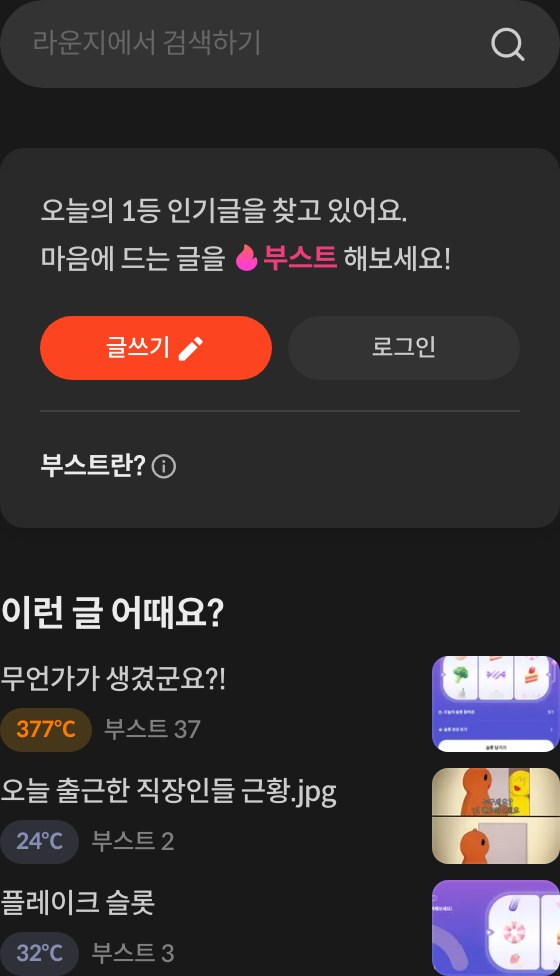
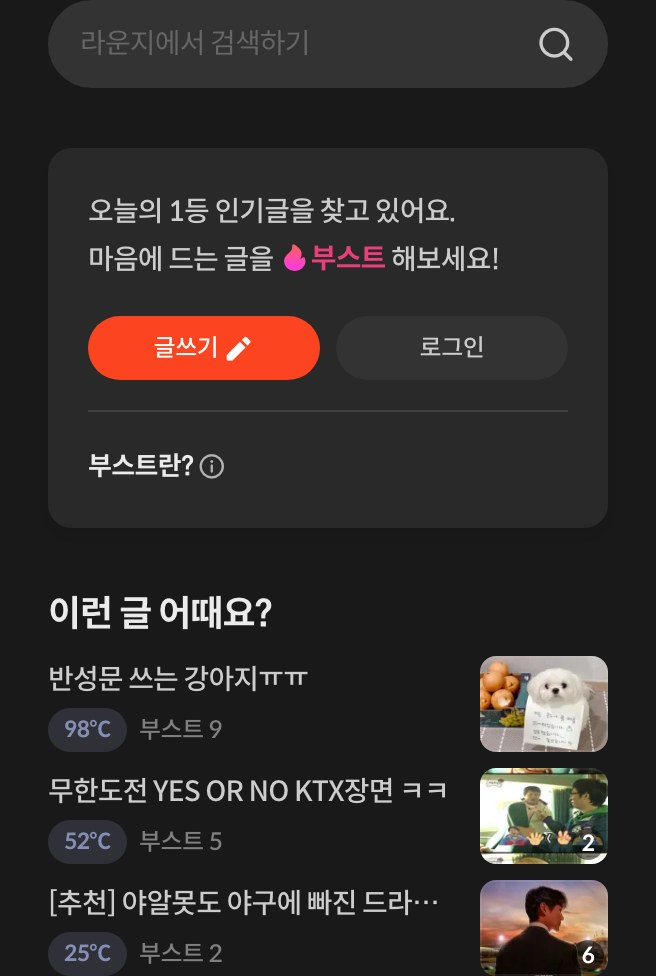
Lounge: live light background, uncropped card shadow
- Light mode keeps the real lounge background (global gray-20 #fafafa)
  so the search input (#f0f0f0) is visible again; dark stays on the
  store main color.
- The right column is cut as the whole aside box (24 + 280 + 24) so the
  card shadow is no longer clipped. Column gap 56 -> 32 and right
  padding 64 -> 40 compensate, keeping the content where it was.
- Recaptured the lounge pair accordingly.

diff --git a/lounge.html b/lounge.html
@@ -25,9 +25,9 @@
        아니라 COLOR_MODE 쿠키로만 테마가 바뀌어 캡처할 때 쿠키로 다크를 연다.
        라운지만은 웹 스크롤바가 있는 1016 레이아웃으로 찍는다 — 스크롤바가
        없으면 가운데 피드가 544로 넓어져 아래 실측 간격(피드 520 기준)이 깨진다.
-       배경: 실제 라운지는 다크 gray-880 / 라이트 gray-20이라 스토어·이벤트와
-       다른데, 클라이언트에서는 스토어 메인과 같은 background-variant-1로
-       통일한다 — 캡처할 때 웹 배경을 그 색으로 바꿔서 찍었다.
+       배경: 실제 라운지는 다크 gray-880 / 라이트 gray-20. 다크만 스토어 메인과
+       같은 background-variant-1로 통일했다(캡처할 때 웹 배경을 그 색으로 바꿔
+       찍음). 라이트는 웹 원래 색(gray-20) 그대로.
        app-shell.html(스토어)과 동일한 방식 — 라이브 임베드 대신 헤드리스
        크롬으로 1040px/2x 레티나 다크모드 캡처, 최상단 공유 GNB(64px)는
        제거. 상단 48px / 하단 200px 여백. 스크롤바는 오버레이(js/page-scrollbar.js).
@@ -58,25 +58,32 @@
     .app > .main {
       overflow-y: auto;
       overflow-x: hidden;
-      background: var(--background-variant-1); /* 스토어 메인과 동일 — 위 주석 참고 */
+      background: var(--background-variant-1); /* 다크: 스토어 메인과 동일 — 위 주석 참고 */
       /* 좌: 사이드바-아이콘레일 4px / 우: 우측열 뒤 64px — 실제 네이티브
          클라이언트 캡처에 직접 그려서 받은 정확한 수치. 하단은 0 —
          라운지는 실제로 무한 스크롤 피드라서 스토어/이벤트처럼 "콘텐츠
          끝 + 200px 여백"을 두면 어색함(끝이 있는 것처럼 보임). */
-      padding: calc(4.8rem + var(--utility-notice-h, 0px)) 6.4rem 0 0.4rem;
+      /* 오른쪽 40 — 3단 이미지가 카드 그림자를 담으려고 오른쪽 패딩 24를 품고
+         있어서, 콘텐츠 끝은 예전과 같은 자리(64 안쪽)다. */
+      padding: calc(4.8rem + var(--utility-notice-h, 0px)) 4rem 0 0.4rem;
       display: flex;
       flex-direction: row; /* 공통 셸 기본값(column)을 3단 레이아웃용으로 덮어씀 */
     }
     /* 1단-2단 간격 52px, 2단-3단 간격 56px — 실측 결과 둘이 다름 */
     .lounge-col-center { flex: 0 0 auto; margin-left: 5.2rem; }
-    .lounge-col-right { flex: 0 0 auto; margin-left: 5.6rem; }
+    /* 3단 이미지는 aside 박스 전체(좌 24 + 콘텐츠 280 + 우 24)라 그만큼 간격을
+       줄인다: 56 - 24 = 32. 콘텐츠 사이 실제 간격은 그대로 56. */
+    .lounge-col-right { flex: 0 0 auto; margin-left: 3.2rem; }
     .lounge-col-left,
     .lounge-col-right { height: 253.6rem; }
     .lounge-col-left img,
     .lounge-col-right img { position: sticky; top: 0; display: block; }
     .lounge-col-left img { width: 6.4rem; }
     .lounge-col-center img { display: block; width: 52rem; }
-    .lounge-col-right img { width: 28rem; }
+    .lounge-col-right img { width: 32.8rem; }
+    /* 라이트: 실제 라운지 웹 배경(글로벌 gray-20 #fafafa) 그대로 — 검색 인풋(#f0f0f0)이
+       배경과 구분돼야 해서 스토어 메인 색으로 통일하지 않는다 */
+    :root[data-theme="light"] .app > .main { background: var(--stove-gray-20); }
     /* 3단 검색창 윗변을 1단 활성 메뉴("오늘의 1등") 박스 윗변에 맞춘다 —
        1단 이미지 안의 여백이 8px(72→64 축소 표시라 약 7px)이라 같은 7px.
        sticky 기준도 같이 내려야 스크롤 중에도 같은 높이를 유지한다. */
@@ -136,16 +143,16 @@
     <!-- ============ MAIN (라운지 정적 스크린샷 — 3단 분할, 좌/우 고정, 테마별 한 쌍) ============ -->
     <div class="main main--overlay-scroll">
       <div class="lounge-col-left">
-        <img class="theme-img--dark" src="assets/lounge-left-dark.jpg?v=3" alt="" aria-hidden="true" loading="lazy" />
-        <img class="theme-img--light" src="assets/lounge-left-light.jpg?v=2" alt="" aria-hidden="true" loading="lazy" />
+        <img class="theme-img--dark" src="assets/lounge-left-dark.jpg?v=4" alt="" aria-hidden="true" loading="lazy" />
+        <img class="theme-img--light" src="assets/lounge-left-light.jpg?v=3" alt="" aria-hidden="true" loading="lazy" />
       </div>
       <div class="lounge-col-center">
-        <img class="theme-img--dark" src="assets/lounge-center-dark.jpg?v=6" alt="STOVE 라운지 미리보기" loading="lazy" />
-        <img class="theme-img--light" src="assets/lounge-center-light.jpg?v=2" alt="STOVE 라운지 미리보기" loading="lazy" />
+        <img class="theme-img--dark" src="assets/lounge-center-dark.jpg?v=7" alt="STOVE 라운지 미리보기" loading="lazy" />
+        <img class="theme-img--light" src="assets/lounge-center-light.jpg?v=3" alt="STOVE 라운지 미리보기" loading="lazy" />
       </div>
       <div class="lounge-col-right">
-        <img class="theme-img--dark" src="assets/lounge-right-dark.jpg?v=4" alt="" aria-hidden="true" loading="lazy" />
-        <img class="theme-img--light" src="assets/lounge-right-light.jpg?v=2" alt="" aria-hidden="true" loading="lazy" />
+        <img class="theme-img--dark" src="assets/lounge-right-dark.jpg?v=5" alt="" aria-hidden="true" loading="lazy" />
+        <img class="theme-img--light" src="assets/lounge-right-light.jpg?v=3" alt="" aria-hidden="true" loading="lazy" />
       </div>
     </div>
 
